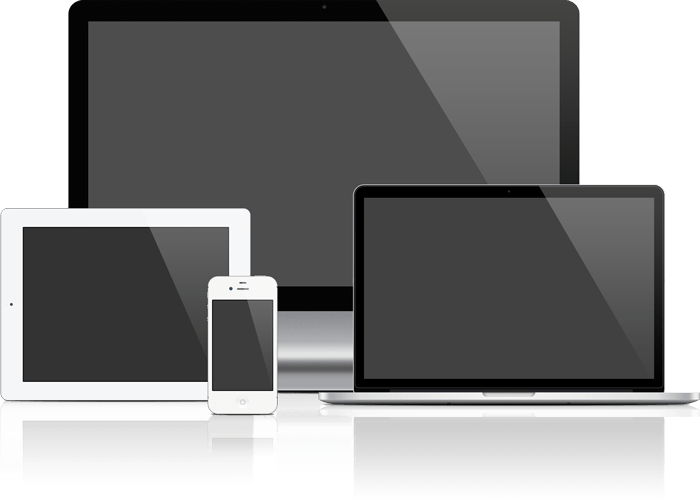
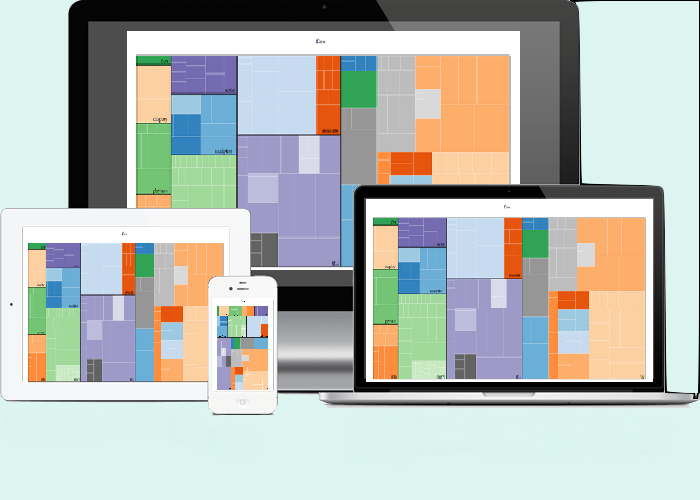
Présentation

diff --git a/js/visualizations/presentation.js b/js/visualizations/presentation.js
@@ -697,11 +697,24 @@ function TreeMap(options) {
                     .style("cursor", "default")
                     .text(function (d) {
                         if(children.indexOf(d) !== -1){
-                            return d.ord;
+                        	if(((d.x + d.dx) - d.x) > (d.name.length + d.ord.toString().length) * 5){
+                        		d.w = true;
+                        		return d.ord + "." + d.name;
+                        	}
+                        	else{
+                        		d.w = false;
+                        		return d.ord;
+                        	}
                         }
                     })
                     .style("font-size", function (d) {
-                        return 0.50 * Math.sqrt(d.dx * d.dy) + 'px';
+                    	if(!d.w){
+                    		return 0.50 * Math.sqrt(d.dx * d.dy) + 'px';
+                    	}
+                    	else{
+                    		w = this.getComputedTextLength();
+                    		return 100 * (d.dx / w) + '%';
+                    	}
                     })
                     .style("opacity", function(d){
                     	if(d != node){

diff --git a/presentation/slides.html b/presentation/slides.html
@@ -95,7 +95,7 @@
 	    <tr>
 	        <td class="center">
                 <figure>
-                	<img src="./presentation/images/treemapSolution1.png" alt="treemapSolution1" />
+                	<img src="./presentation/images/treemapSolution1.png" alt="treemapSolution3" />
                 	<figcaption>Treemap</figcaption>
                 </figure>
             </td>
@@ -169,7 +169,7 @@
             <td class="w50 center">
             	<figure>
 	                <img src="./presentation/images/gllarge.png" alt="Boston Globe Investigation" />
-	                <figcaption>Bonston Globe Investigation</figcaption>
+	                <figcaption>Boston Globe Investigation</figcaption>
 	            </figure>
             </td>
         </tr>
@@ -177,7 +177,7 @@
             <td class="center">
             	<figure>
 	                <img src="./presentation/images/glsmall.png" alt="Boston Globe Investigation 2" />
-	                <figcaption>Bonston Globe Investigation</figcaption>
+	                <figcaption>Boston Globe Investigation</figcaption>
 	            </figure>
             </td>
         </tr>
